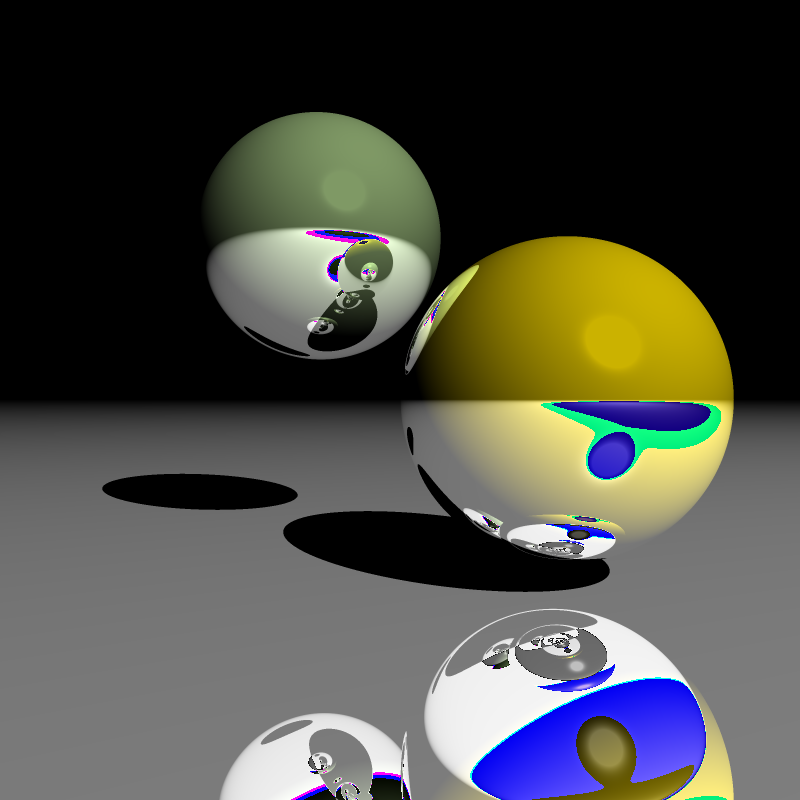
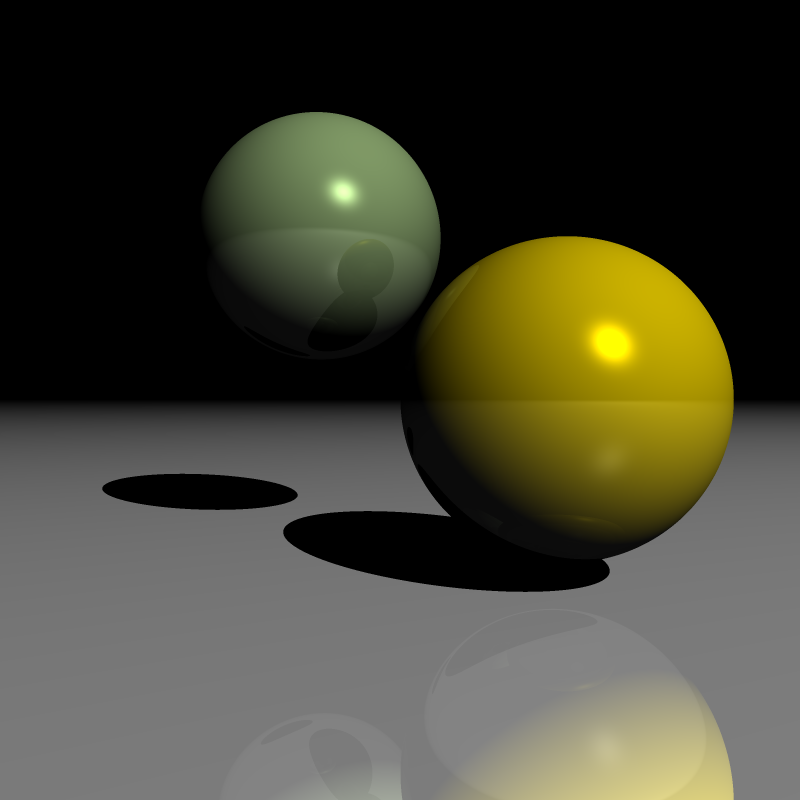
specular reflectivity

diff --git a/src/main.rs b/src/main.rs
@@ -38,6 +38,12 @@ fn render(image: &mut Vec<u8>, size_x: u32, size_y: u32, scene: &Scene) {
                 color = color + scene.intersect(&r, true, 0).1;
             }
             color = color / 9.0;
+
+            for z in 0..3
+            {
+                if color.v[z] > 1.0 { color.v[z] = 1.0; }
+            }
+
             image[((y * size_x + x) * 4 + 0) as usize] = (color.v[0] * 255.0) as u8;
             image[((y * size_x + x) * 4 + 1) as usize] = (color.v[1] * 255.0) as u8;
             image[((y * size_x + x) * 4 + 2) as usize] = (color.v[2] * 255.0) as u8;

diff --git a/src/plane.rs b/src/plane.rs
@@ -24,7 +24,7 @@ impl Intersector for Plane {
                 let pos = ray.origin + ray.dir * distance;
 
                 stat = scene.get_static_light(pos, self.norm, ray.dir, self.col, self.id());
-                dyn = scene.get_dynamic_light(pos, self.norm, ray.dir, self.col, self.id());
+                dyn = scene.get_dynamic_light(pos, self.norm, ray.dir, self.col, self.id()) * 0.7; //todo: this is hardcoded specular reflectivity
             }
 
             return (distance, stat + dyn);

diff --git a/src/sphere.rs b/src/sphere.rs
@@ -39,7 +39,7 @@ impl Intersector for Sphere {
                 normal.normalize();
 
                 stat = scene.get_static_light(pos, normal, ray.dir, self.col, self.id());
-                dyn = scene.get_dynamic_light(pos, normal, ray.dir, self.col, self.id());
+                dyn = scene.get_dynamic_light(pos, normal, ray.dir, self.col, self.id()) * 0.1; //todo: this is hardcoded specular reflectivity
             }
             return (dist, stat + dyn);
         }

diff --git a/src/scene.rs b/src/scene.rs
@@ -87,12 +87,9 @@ impl Scene {
         };
         let light_intersect = self.intersect(&ray, false, source);
 
+        //todo: this is incorrect. if there's an object further away from the light, it should not cast shadow
         if light_intersect.0 > 0.0 {
             total = 0.0;
-        }
-
-        if total > 1.0 {
-            total = 1.0;
         }
 
         color * total
